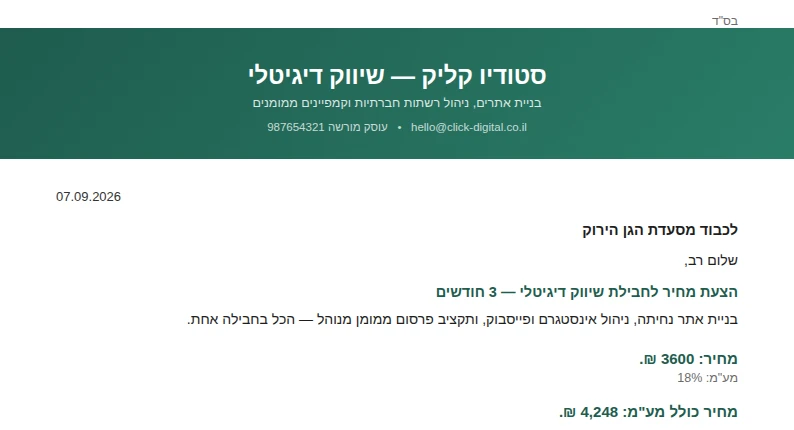
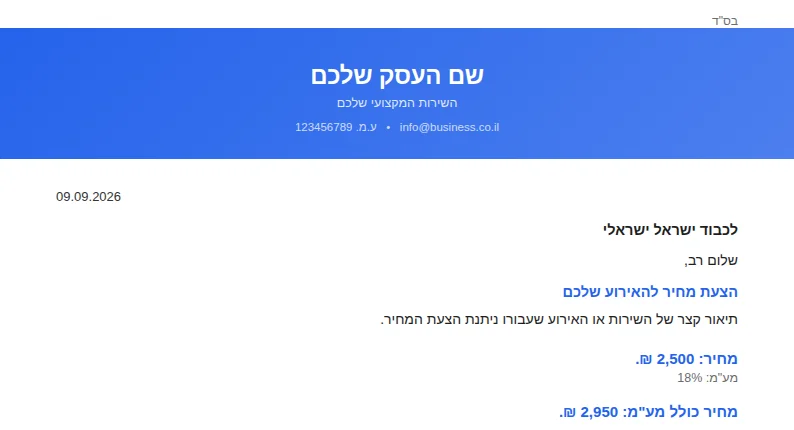
Recolor quote templates by category to match the site-wide palette
"classic" and "modern" (both עסקי כללי) now share the same blue used
for the equivalent site-template category, instead of modern using
the old brand green on its own. "noir" (אירועים ובוטיק) gets a gold
accent to tie it to "elegant"'s existing gold palette instead of
having no color relationship to its own category. Regenerated all 4
quote preview thumbnails (used standalone and on the homepage) to
match.

Claude-Session: https://claude.ai/code/session_0157gJphGVbeX9GSLjjRJNPV

diff --git a/js/quote-render.js b/js/quote-render.js
@@ -72,18 +72,28 @@ const QUOTE_CSS = `
    original, single design this tool shipped with, kept as the default so
    existing saved quotes (no q.template yet) render unchanged. */
 const QUOTE_SKIN_CSS = {
-  classic: ``,
+  /* Both "classic" and "modern" are the same category (עסקי כללי), so
+     they share one accent color — the same blue used for the matching
+     "עסקי שירות" category of site templates, for a consistent palette
+     across DeskKit's tools rather than each tool inventing its own. */
+  classic: `
+    .quote-doc.skin-classic hr { border-top-color:#2563EB; }
+    .quote-doc.skin-classic .subject, .quote-doc.skin-classic .price-line { color:#2563EB; }
+  `,
   modern: `
     .quote-doc.skin-modern { padding-top:0; }
-    .quote-doc.skin-modern .letterhead { background:linear-gradient(135deg, #1F5C4E, #2A7D68); padding:34px 40px 26px; margin-bottom:0; }
+    .quote-doc.skin-modern .letterhead { background:linear-gradient(135deg, #2563EB, #4C7FEF); padding:34px 40px 26px; margin-bottom:0; }
     .quote-doc.skin-modern .biz-name { color:#fff; font-family:'Rubik', 'Heebo', Arial, sans-serif; font-weight:900; font-size:24px; letter-spacing:-.01em; }
     .quote-doc.skin-modern .tagline { color:rgba(255,255,255,.85); }
     .quote-doc.skin-modern .contact-line { color:rgba(255,255,255,.75); }
     .quote-doc.skin-modern hr { display:none; }
     .quote-doc.skin-modern .qd-inner { padding-top:30px; }
-    .quote-doc.skin-modern .subject { color:#1F5C4E; }
-    .quote-doc.skin-modern .price-line { color:#1F5C4E; }
+    .quote-doc.skin-modern .subject { color:#2563EB; }
+    .quote-doc.skin-modern .price-line { color:#2563EB; }
   `,
+  /* "elegant" and "noir" are both אירועים ובוטיק — sharing the same
+     warm gold accent family ties them together even though noir keeps
+     its own dark letterhead. */
   elegant: `
     .quote-doc.skin-elegant { background:#FDFBF6; }
     .quote-doc.skin-elegant .biz-name { font-family:'Frank Ruhl Libre', Georgia, serif; font-weight:700; font-size:23px; color:#7A5A1E; letter-spacing:.01em; }
@@ -94,13 +104,14 @@ const QUOTE_SKIN_CSS = {
   `,
   noir: `
     .quote-doc.skin-noir { padding-top:0; }
-    .quote-doc.skin-noir .letterhead { background:#14201C; padding:34px 40px 26px; margin-bottom:0; }
+    .quote-doc.skin-noir .letterhead { background:#14201C; padding:34px 40px 26px; margin-bottom:0; border-bottom:2px solid #C99A3B; }
     .quote-doc.skin-noir .biz-name { color:#fff; font-weight:300; letter-spacing:.06em; text-transform:uppercase; font-size:19px; }
     .quote-doc.skin-noir .tagline { color:rgba(255,255,255,.7); }
     .quote-doc.skin-noir .contact-line { color:rgba(255,255,255,.55); }
     .quote-doc.skin-noir hr { display:none; }
     .quote-doc.skin-noir .qd-inner { padding-top:30px; }
     .quote-doc.skin-noir .subject { letter-spacing:.02em; }
+    .quote-doc.skin-noir .price-line { color:#7A5A1E; }
   `,
 };
 

diff --git a/admin.html b/admin.html
@@ -266,7 +266,7 @@
 
 <script src="https://cdn.jsdelivr.net/npm/chart.js@4.4.4/dist/chart.umd.min.js"></script>
 <script src="js/site-templates.js"></script>
-<script src="js/quote-render.js?v=3"></script>
+<script src="js/quote-render.js?v=4"></script>
 <script src="js/products-data.js?v=2"></script>
 <script src="js/main.js"></script>
 <script src="https://cdn.jsdelivr.net/npm/@supabase/supabase-js@2/dist/umd/supabase.min.js"></script>

diff --git a/catalog.html b/catalog.html
@@ -115,7 +115,7 @@
 </footer>
 
 <script src="js/site-templates.js"></script>
-<script src="js/quote-render.js?v=3"></script>
+<script src="js/quote-render.js?v=4"></script>
 <script src="js/products-data.js?v=2"></script>
 <script src="js/catalog.js?v=11"></script>
 <script src="https://cdn.jsdelivr.net/npm/@supabase/supabase-js@2/dist/umd/supabase.min.js"></script>

diff --git a/quote-app.html b/quote-app.html
@@ -233,7 +233,7 @@
   </div>
 </footer>
 
-<script src="js/quote-render.js?v=3"></script>
+<script src="js/quote-render.js?v=4"></script>
 <script src="js/supabase-config.js"></script>
 <script src="js/nav-auth.js"></script>
 <script src="js/my-panel.js?v=9"></script>

diff --git a/quotes.html b/quotes.html
@@ -108,7 +108,7 @@
 </div>
 
 <script src="js/quote-content.js"></script>
-<script src="js/quote-render.js?v=3"></script>
+<script src="js/quote-render.js?v=4"></script>
 <script src="js/quote-builder.js?v=1"></script>
 </body>
 </html>
